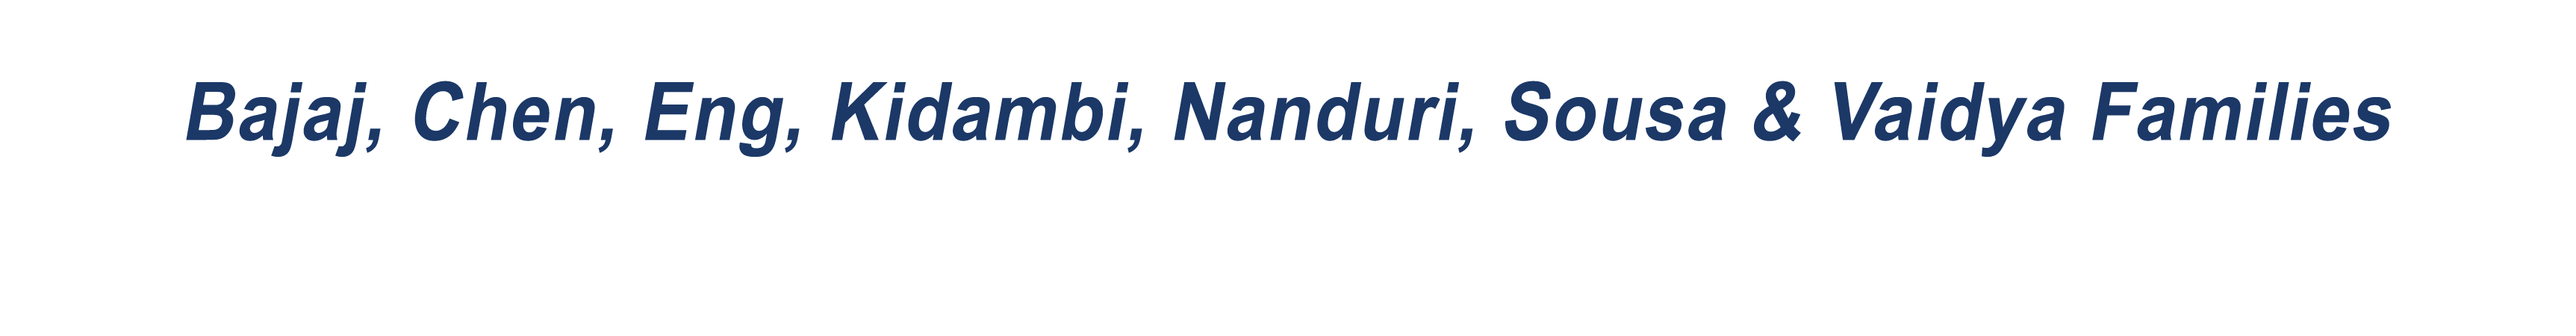
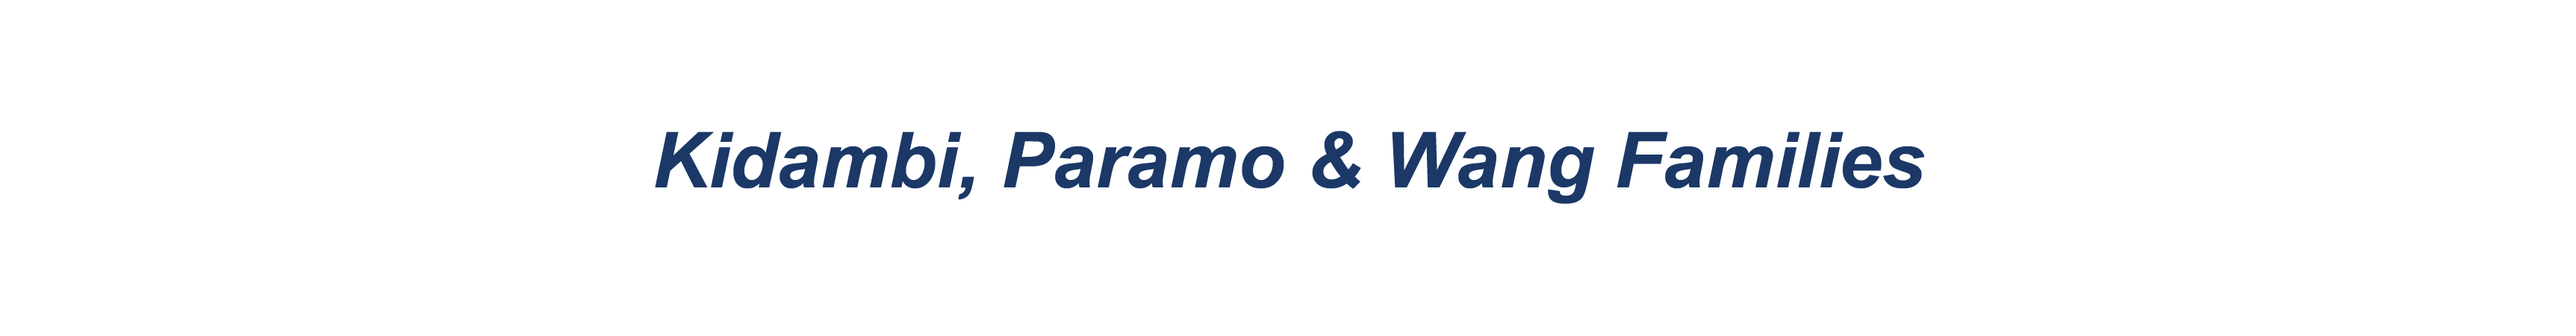
Updated 2026 sponsor page

Changed region(s): [[0.062, 0.2489, 0.9304, 0.6222]]

diff --git a/support_sponsors.html b/support_sponsors.html
@@ -130,13 +130,13 @@
           <div> <img class="img-responsive center-block" src="img/support_sponsors/platinumRow.png" alt="PlatinumRow"> </div> -->
       <h2>Gold Sponsors</h2>
           <div> <img class="img-responsive center-block" src="img/support_sponsors/gold_row.png" alt="GoldRow"> </div>
-    <h2>Silver Sponsors</h2>
-          <div> <img class="img-responsive center-block" src="img/support_sponsors/silver_row.png" alt="SilverRow"> </div> 
-     <!--     <div> <img class="img-responsive center-block" src="img/support_sponsors/row_silver2.png" alt="ROW2"> </div> 
+    <!--COMMENT OUT Silver Title<h2>Silver Sponsors</h2>
+          <div> <img class="img-responsive center-block" src="img/support_sponsors/silver_row.png" alt="SilverRow"> </div> -->
+     <!-- COMMENT OUT 2nd and third Silver Row     <div> <img class="img-responsive center-block" src="img/support_sponsors/row_silver2.png" alt="ROW2"> </div> 
           <div> <img class="img-responsive center-block" src="img/support_sponsors/row_silver3.png" alt="ROW3"> </div> -->
     <h2>Bronze Sponsors</h2>
           <div> <img class="img-responsive center-block" src="img/support_sponsors/bronze_row1.png" alt="Bronze1"> </div> 
-          <div> <img class="img-responsive center-block" src="img/support_sponsors/bronze_row2.png" alt="Bronze2"> </div> 
+      <!-- COMMENT OUT 2nd Bronze row    <div> <img class="img-responsive center-block" src="img/support_sponsors/bronze_row2.png" alt="Bronze2"> </div> -->
     <h2>School Sponsor</h2>
           <div> <img class="img-responsive center-block center-block" src="img/support_sponsors/PHS_row.png" alt="PresLogo"> </div> 
     <h2>Patrons</h2>
